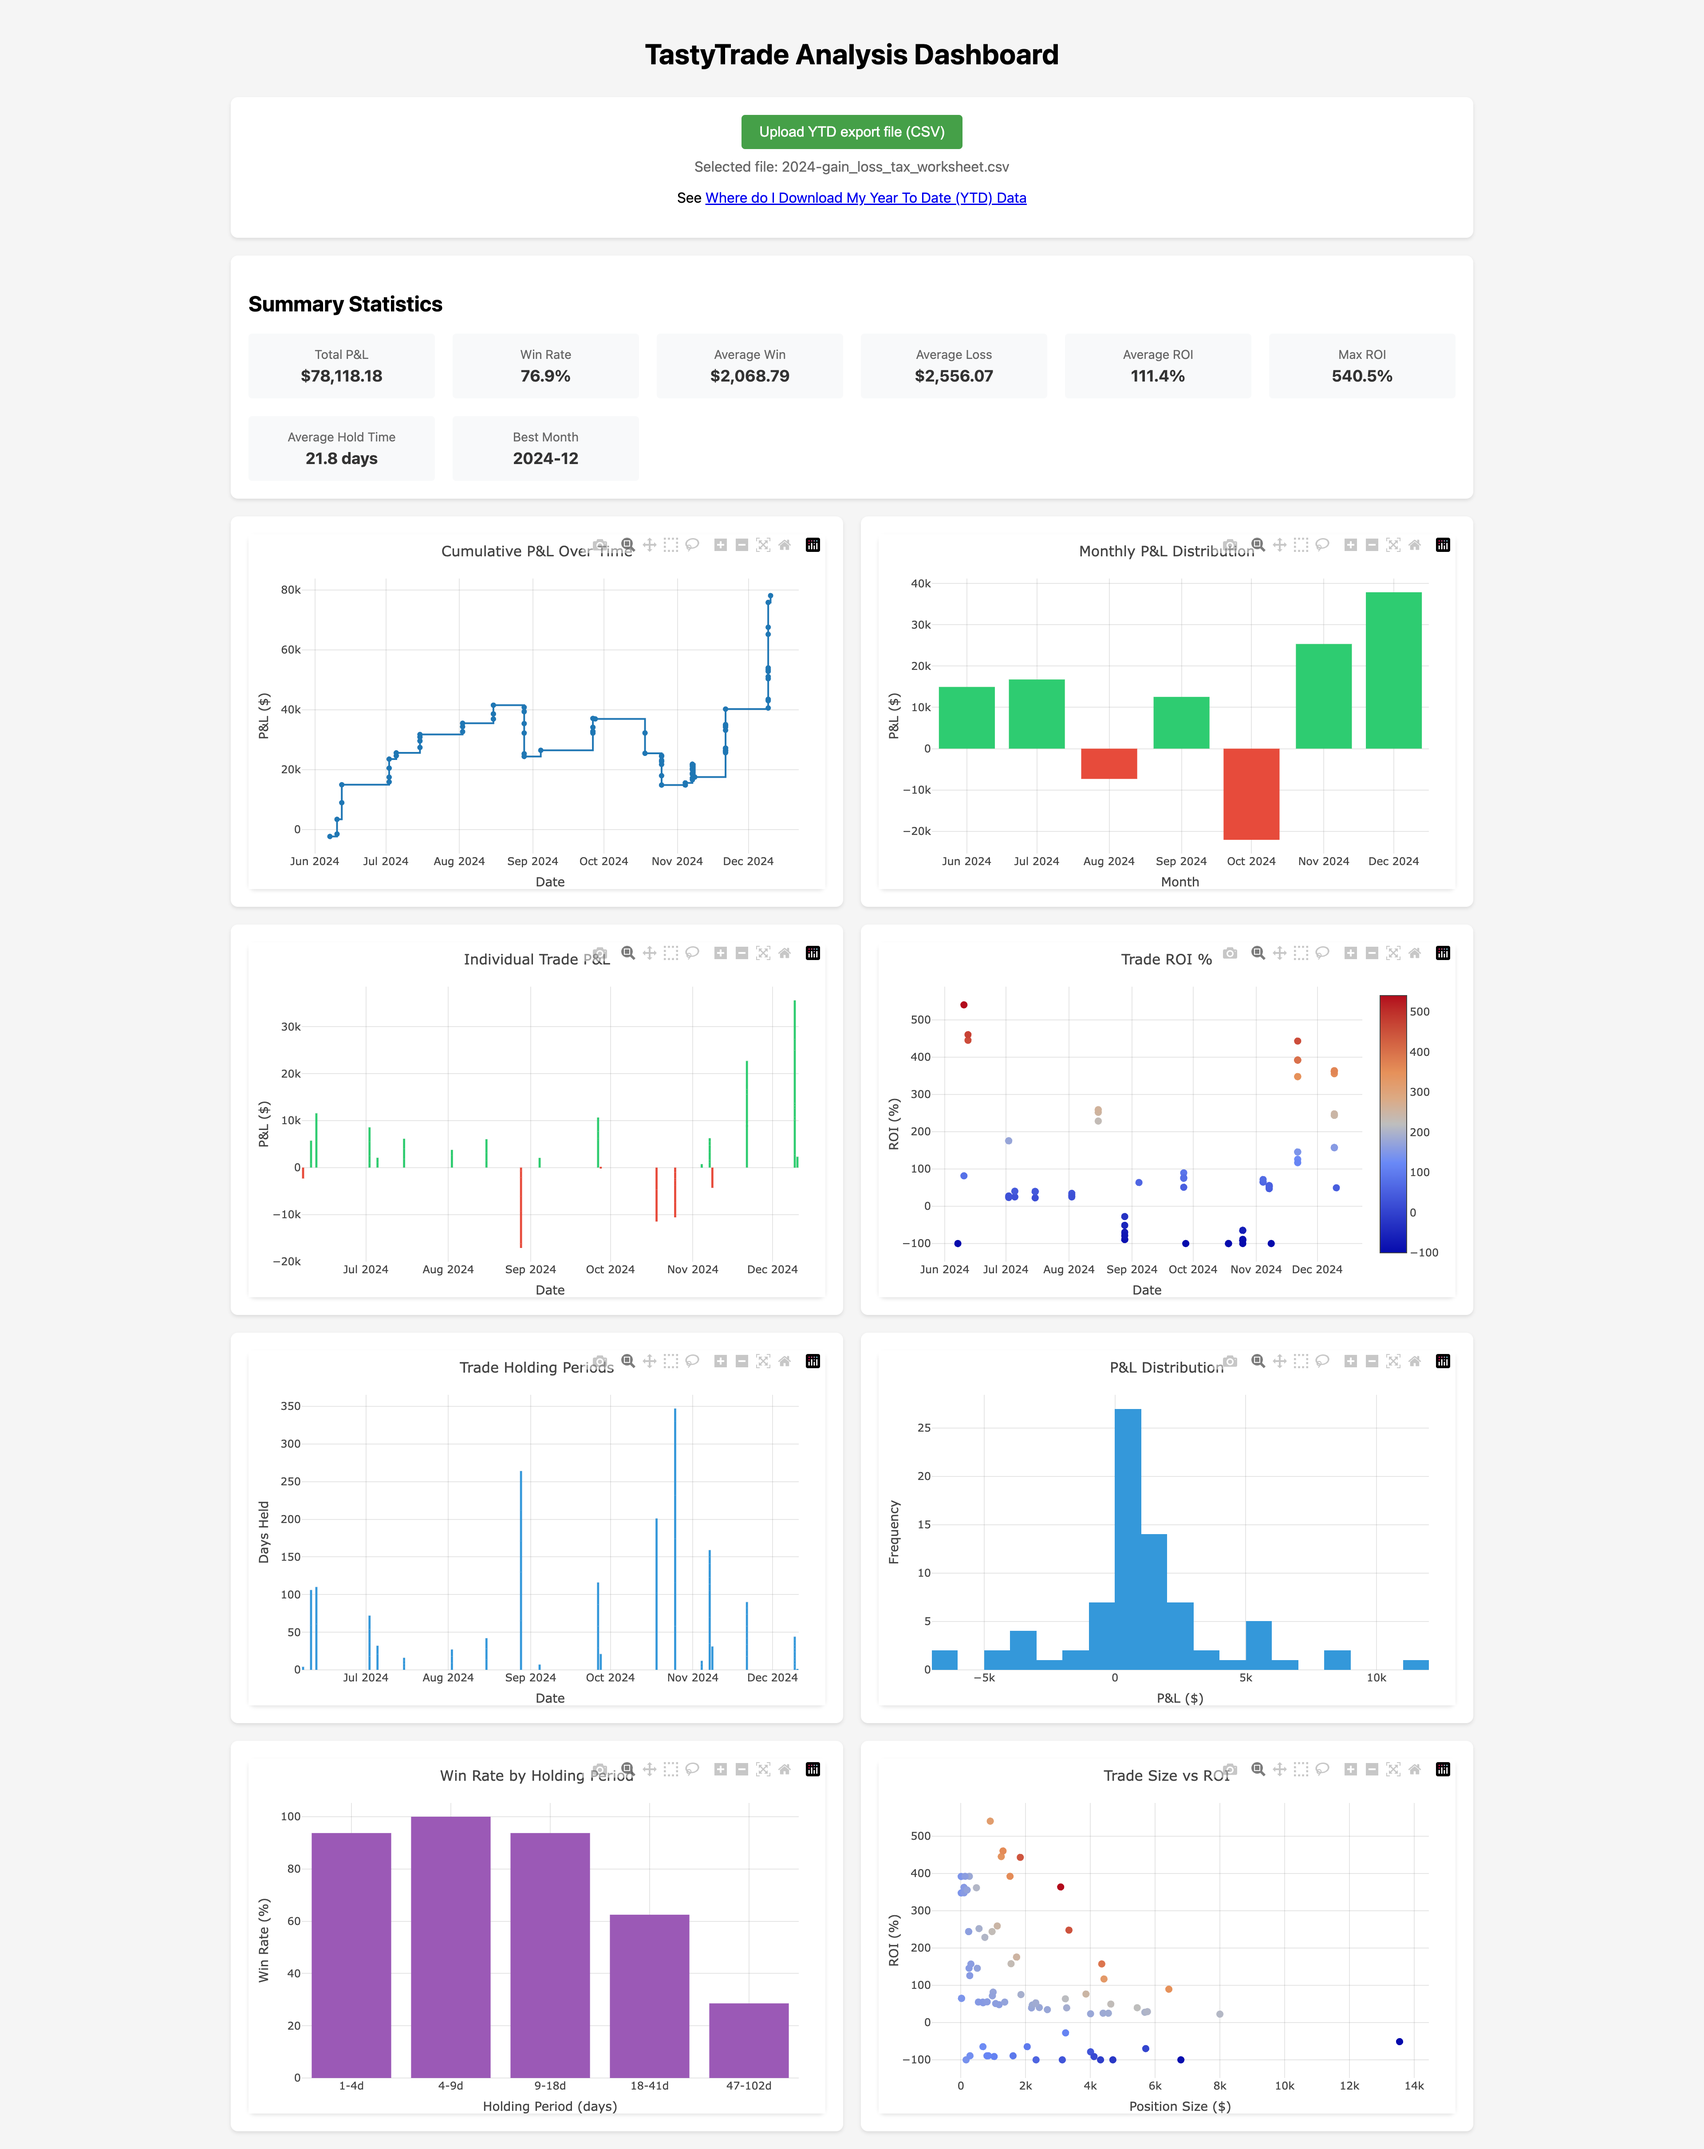
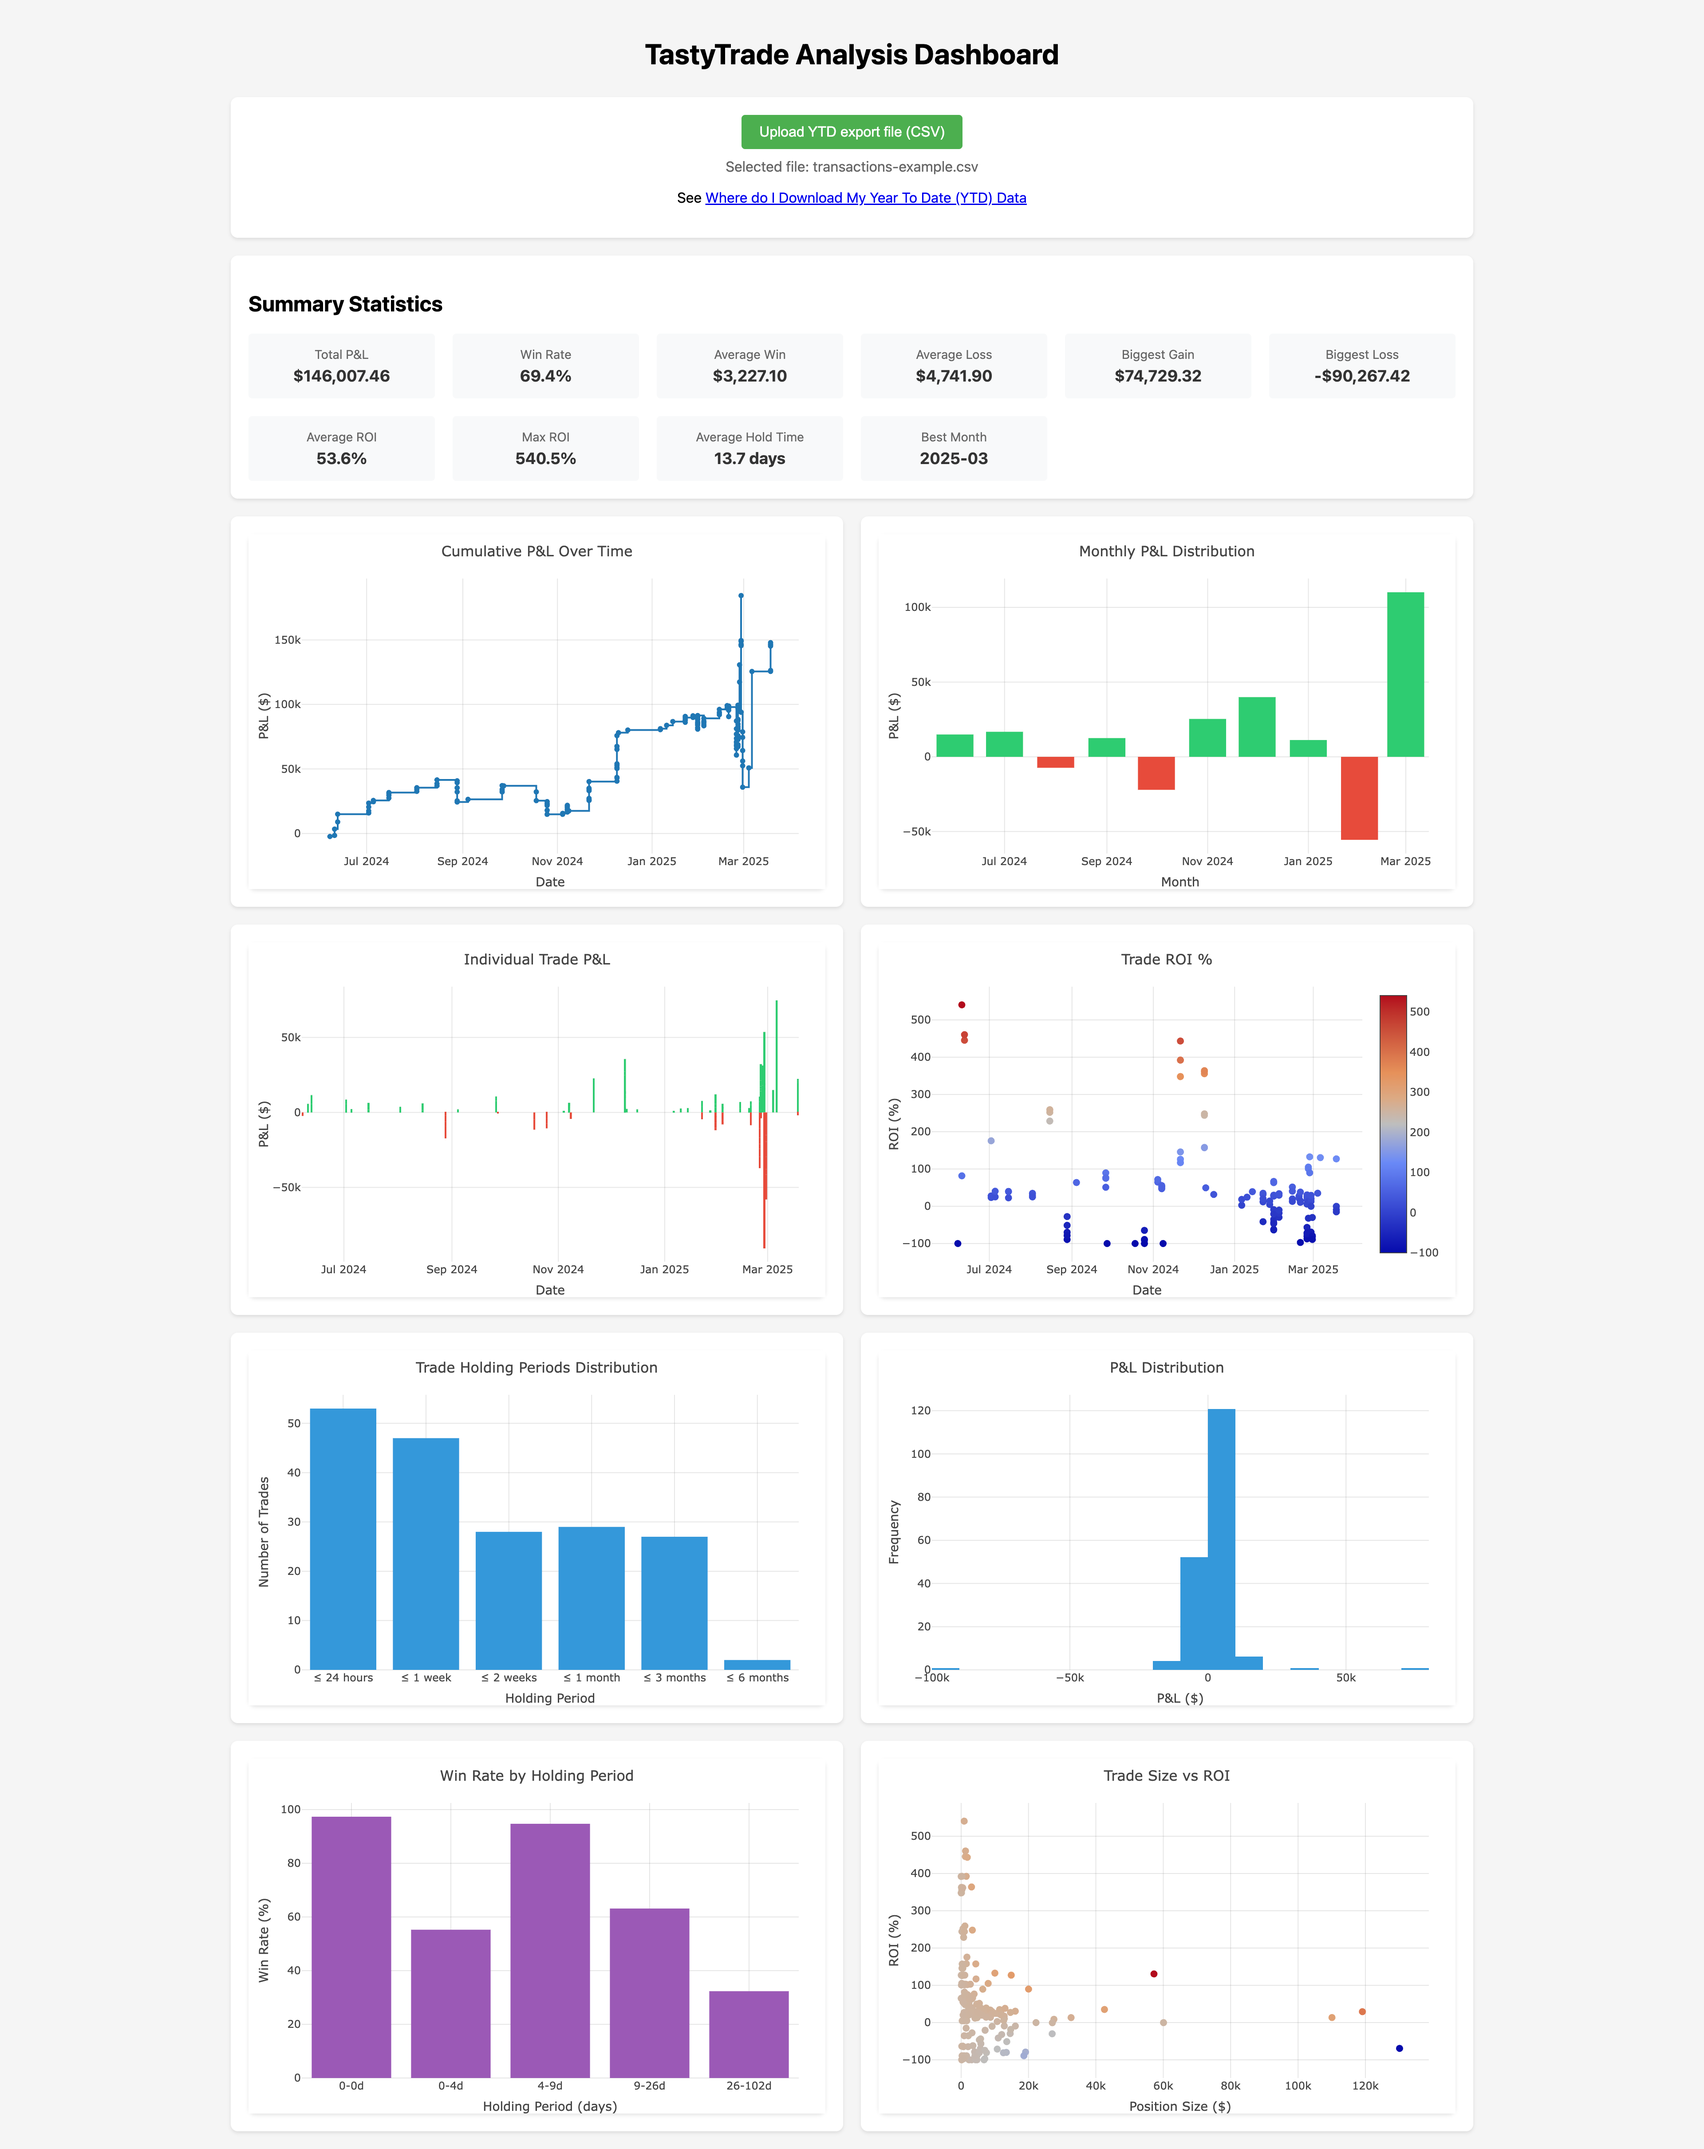
update showcase and readme to match the current implementation

diff --git a/README.md b/README.md
@@ -1,6 +1,6 @@
 # TastyTrade Analytics Dashboard
 
-Track and analyze your trading performance with this simple dashboard. Simply upload your TastyTrade YTD CSV file to see your trading stats, P&L charts, and performance metrics. And worry not about privacy - all data is process locally in your browser.
+Track and analyze your trading performance with this simple dashboard. Simply upload your TastyTrade YTD CSV file to see your trading stats, P&L charts, and performance metrics. And worry not about privacy - all data is processed locally in your browser.
 
 <img src="./dashboard-showcase.png" width="384" height="484">
 
@@ -24,10 +24,19 @@ All data processing occurs entirely in your browser. No data is uploaded to any 
 - Monthly P&L distribution analysis
 - Individual trade performance metrics
 - ROI analysis and visualization
-- Trade holding period analysis
+- Trade holding period distribution
+- P&L distribution analysis
 - Win rate statistics by holding period
 - Position size vs. ROI correlation
-- Comprehensive summary statistics
+- Comprehensive summary statistics including:
+  - Total P&L
+  - Win rate
+  - Average win/loss
+  - Biggest gain/loss
+  - Average ROI
+  - Max ROI
+  - Average hold time
+  - Best trading month
 
 ## 🚀 Usage
 
